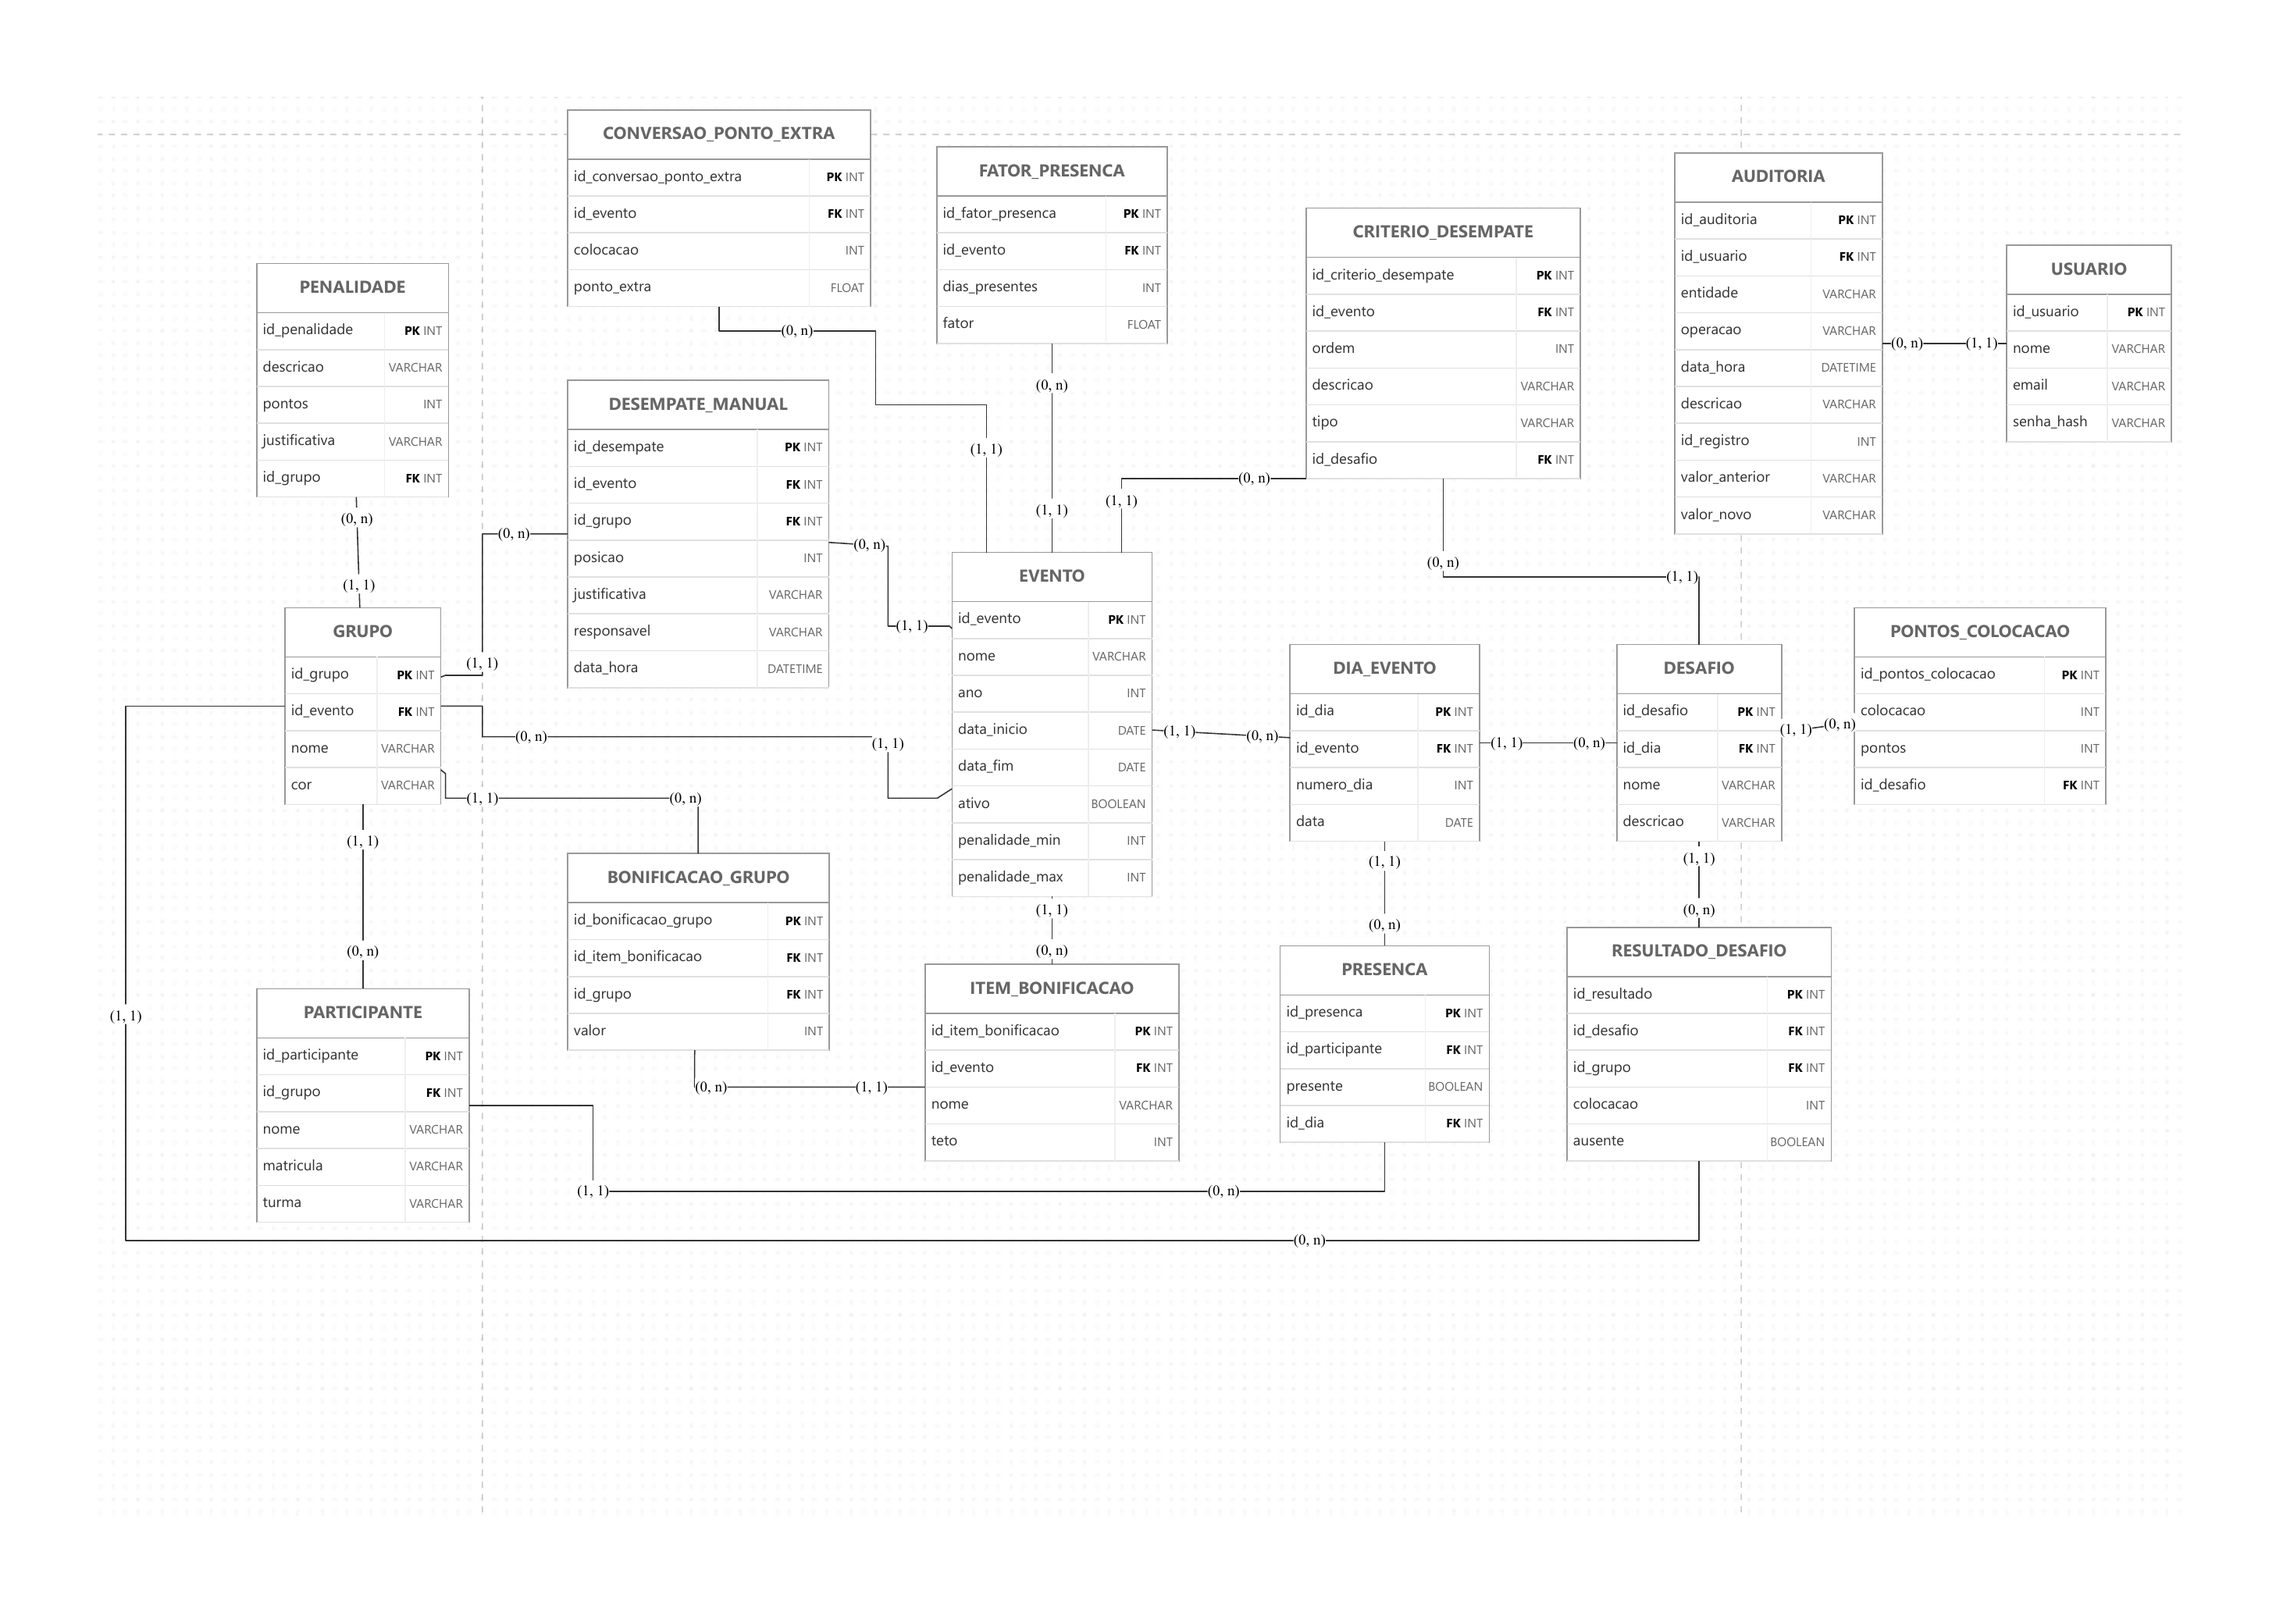
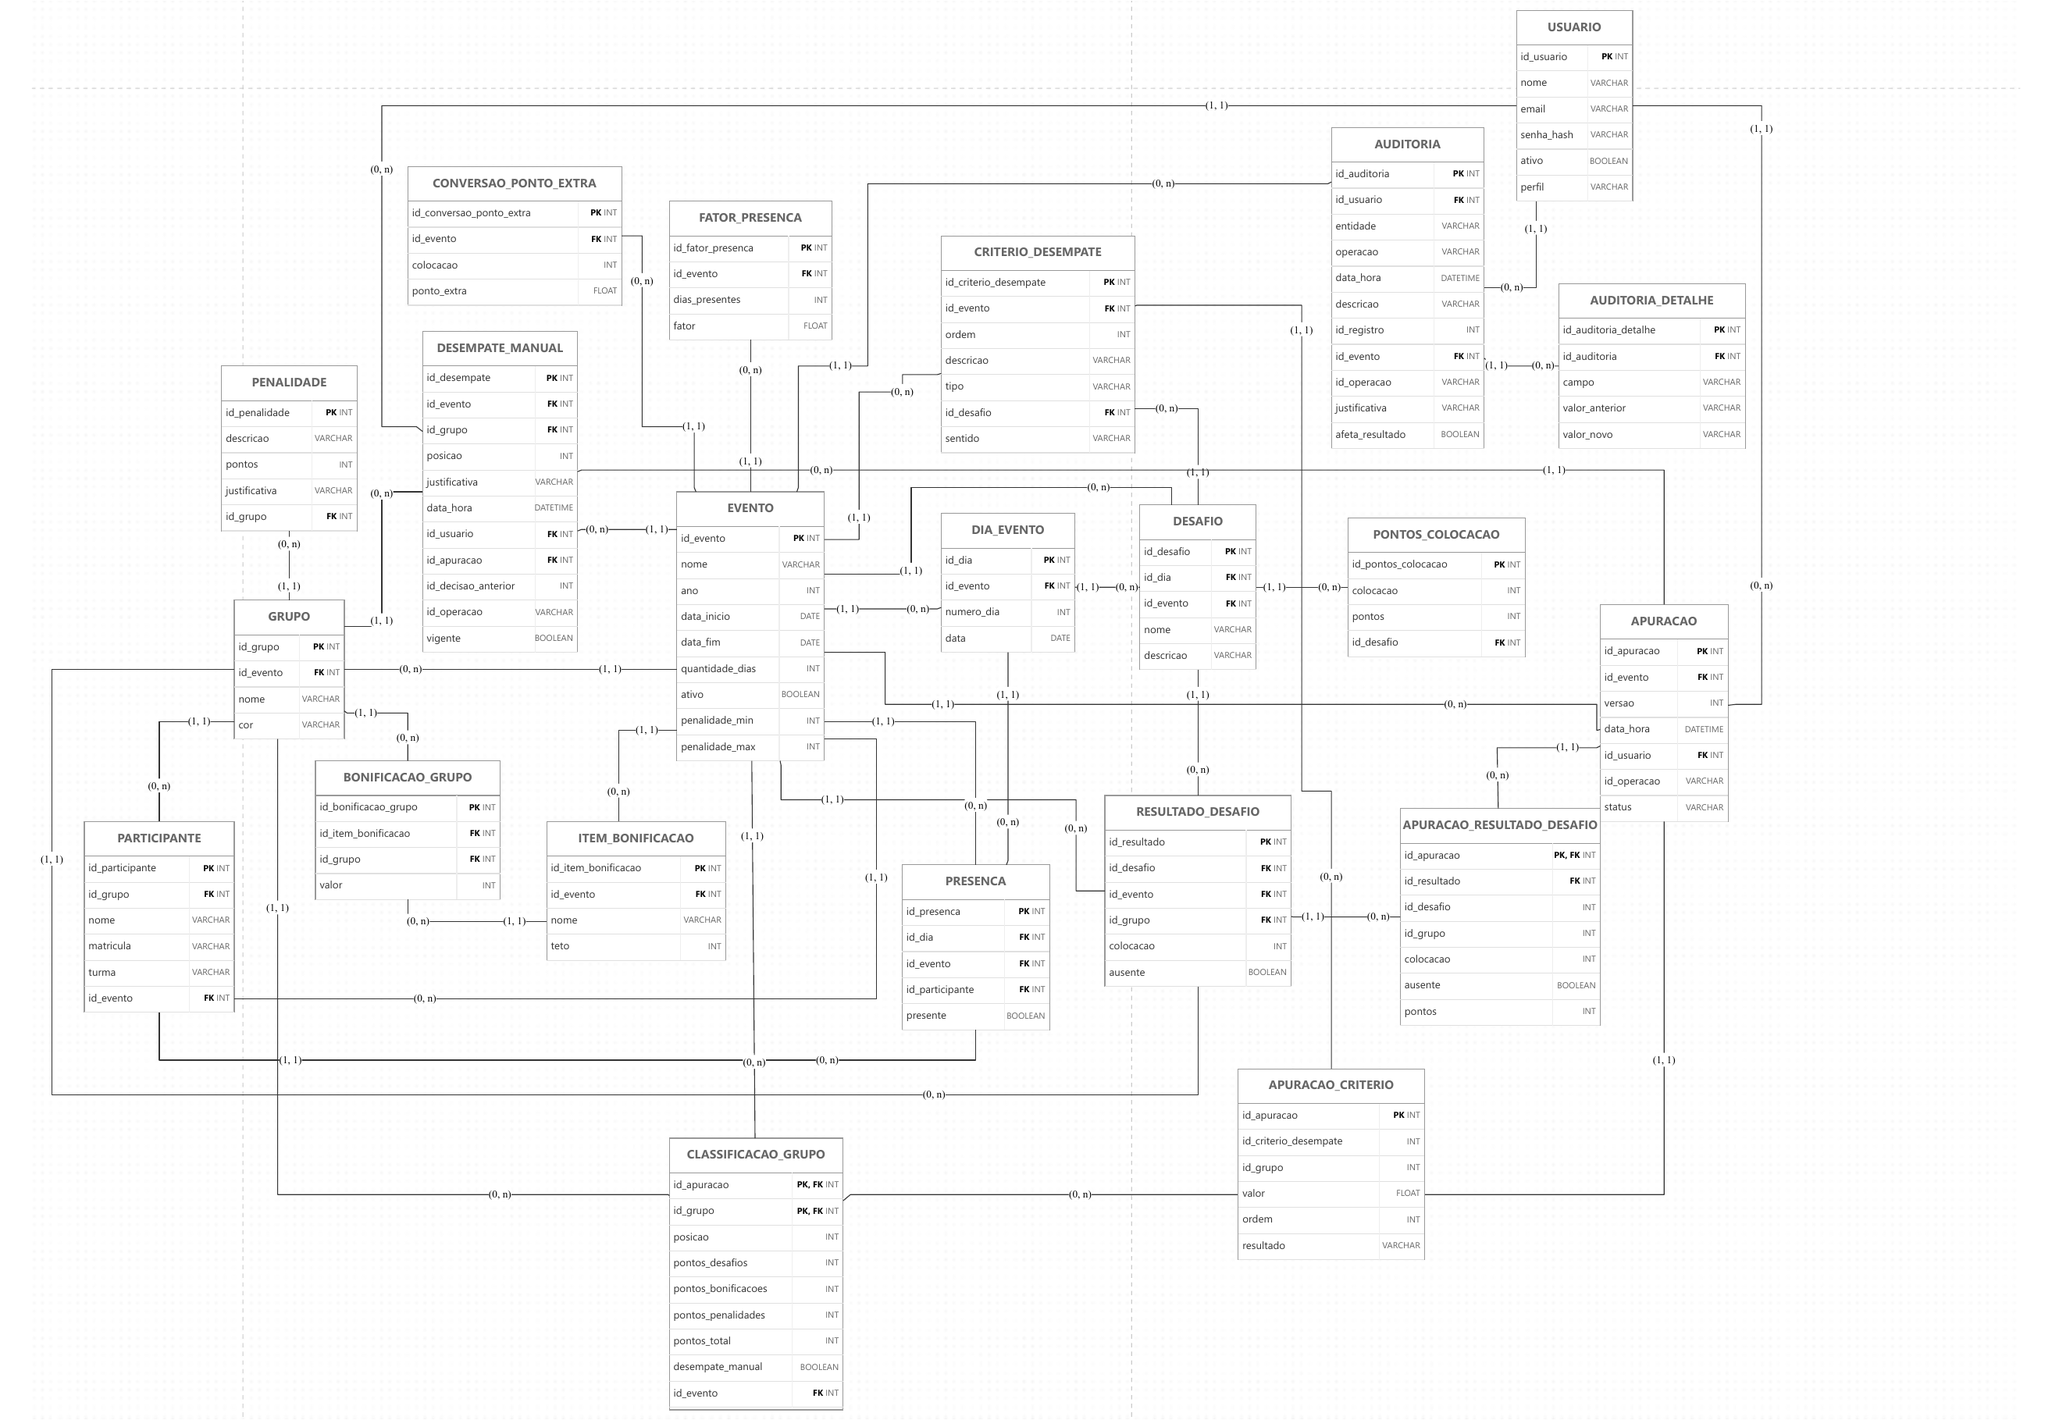
docs(readme): substituir DER preliminar pelo aprovado na DEP01
A imagem anterior tinha 17 tabelas; a aprovada tem as 22 das migrações,
incluindo apuração, classificação e detalhe de auditoria.

diff --git a/README.md b/README.md
@@ -128,7 +128,7 @@ As decisões de arquitetura ficam registradas em [`docs/adr/`](docs/adr/):
 
 ## Modelo de dados
 
-DER preliminar, sujeito a alterações.
+DER aprovado pela equipe de banco (DEP01). A definição exata de tipos e restrições está nas migrações em `prisma/migrations/`; mudanças no modelo entram por migrações novas.
 
 <p align="center">
   <img src="docs/der-eventscore.png" alt="Diagrama entidade-relacionamento do EventScore">
